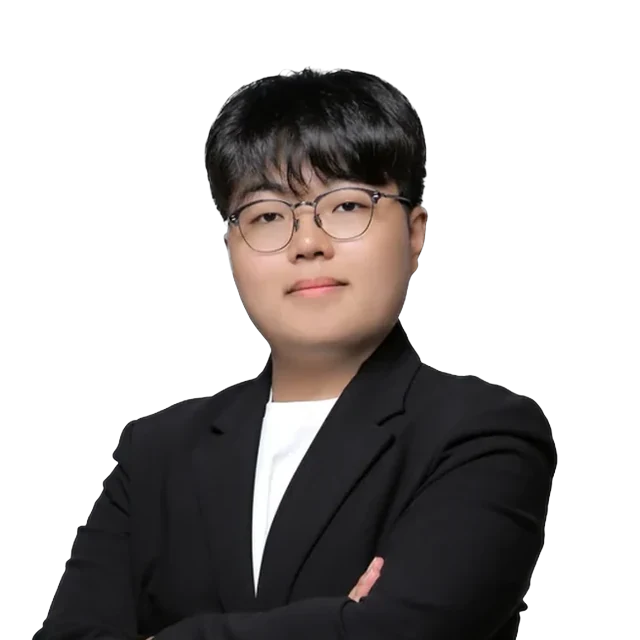
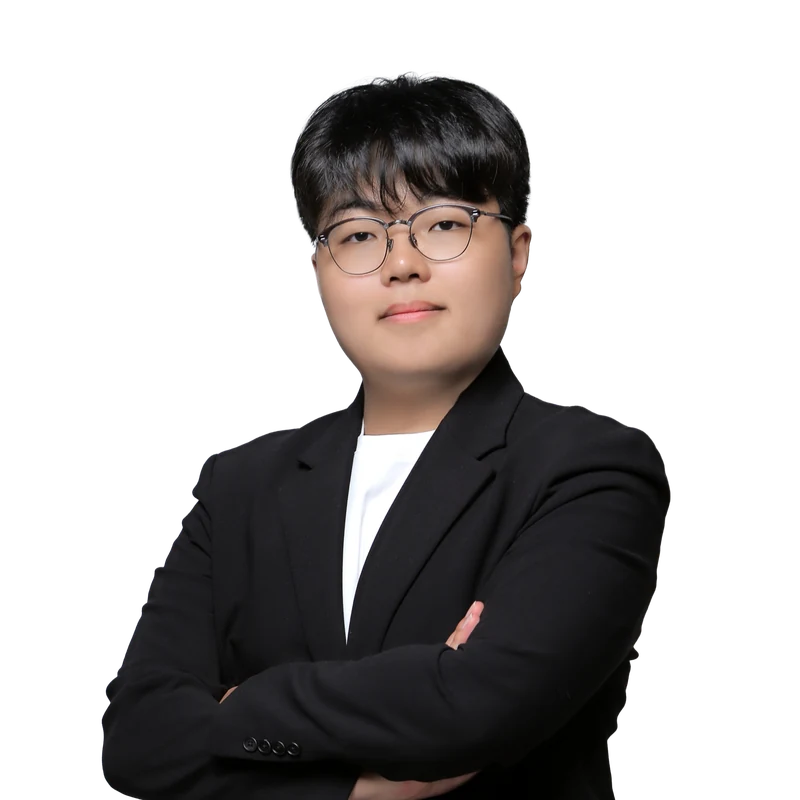
강사 사진 최신판(원본 3240px)으로 교체(800px webp) + 메인 단체 사진을 새 원본으로 다시 만듦 [skip netlify]
Claude-Session: https://claude.ai/code/session_011njH4Ur6oq6sieSq6qMimB

diff --git a/index.html b/index.html
@@ -50,7 +50,7 @@ h1{font-size:clamp(46px,8.5vw,108px);font-weight:900;letter-spacing:-.06em;line-
 .exs{margin-top:18px}
 
 footer{background:#fff;color:#888;border-top:1px solid #EEE}footer a{color:#111}
-@media(max-width:720px){.wrap{padding:0 18px}.top{height:64px}.top nav{display:none}.top .lg{font-size:20px}.top .lg svg{width:32px}.hero-in{padding:14px 0 0}.team{margin-top:24px;--tw:calc(100vw / .50);--c:.5429}.hero::after{width:620px;height:620px;right:-300px;top:-330px}
+@media(max-width:720px){.wrap{padding:0 18px}.top{height:64px}.top nav{display:none}.top .lg{font-size:20px}.top .lg svg{width:32px}.hero-in{padding:14px 0 0}.team{margin-top:24px;--tw:calc(100vw / .50);--c:.5404}.hero::after{width:620px;height:620px;right:-300px;top:-330px}
 .brs{grid-template-columns:1fr;padding-top:28px;gap:12px}.br{padding:18px;column-gap:14px}.br img{width:58px}.br b{font-size:26px}.br .ph{display:block}.br .dot{display:none}.br .go{width:40px;height:40px}}
 
 .row{display:flex;justify-content:center;align-items:flex-end;overflow:hidden}
